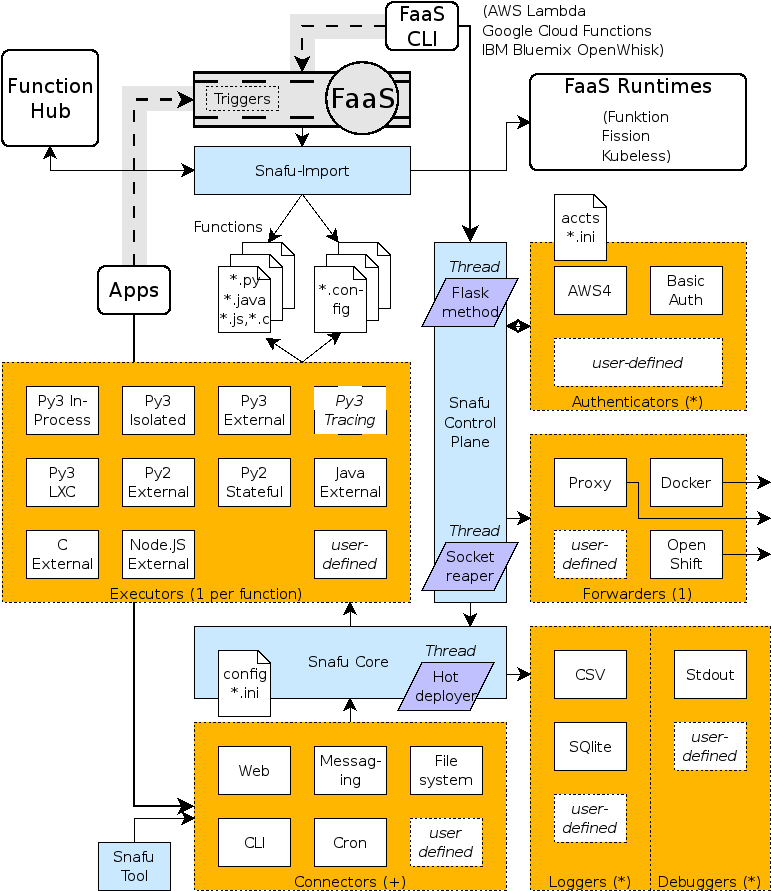
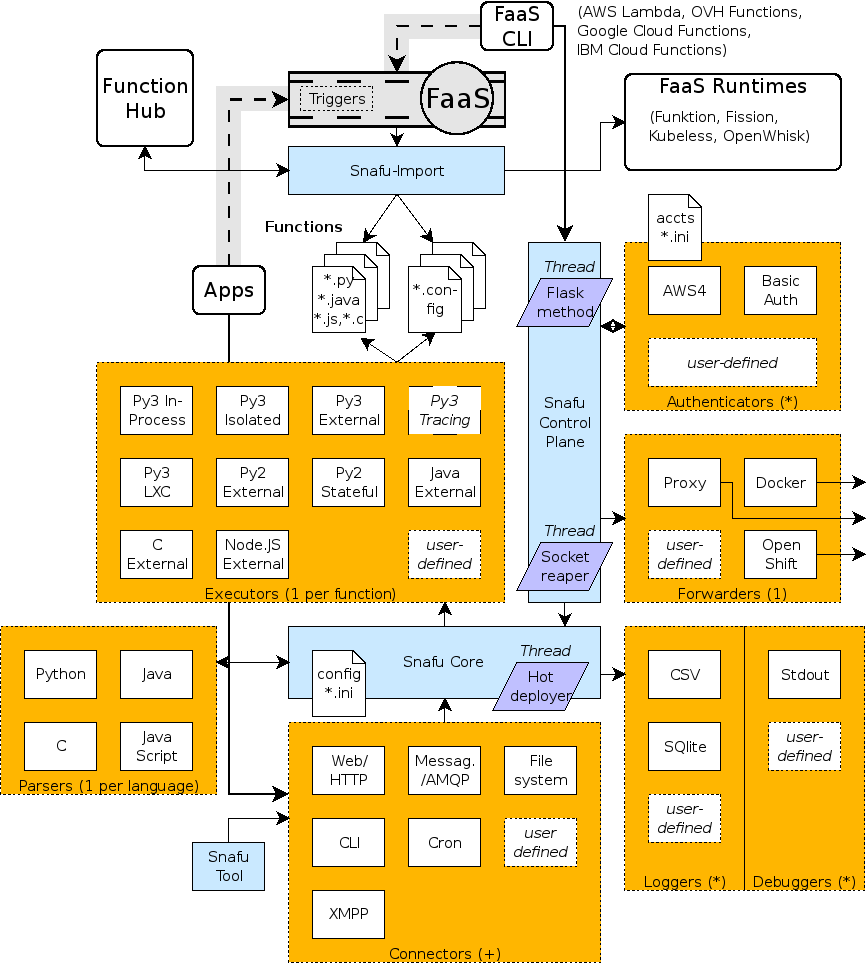
- feature: addition of XMPP connector to allow for interactive networked function calls

diff --git a/snafulib/connectors/xmpp.py b/snafulib/connectors/xmpp.py
@@ -1,0 +1,144 @@
+# Snafu: Snake Functions - XMPP Connector
+# (derived from basexmppbot.py / ported to python3-nbxmpp)
+
+import nbxmpp
+import time
+import configparser
+import os
+#import threading
+import urllib.parse
+
+from gi.repository import GObject as gobject
+
+class BaseXMPPBot:
+	def __init__(self, botname, jid, password, target, debug=True):
+		self.initinternal(botname, jid, password, target)
+
+		self.readystep = 0
+		self.debug = debug
+		self.lasttime = 0
+
+	def initinternal(self, botname, jid, password, target):
+		self.botname = botname
+		self.jid = jid
+		self.password = password
+		self.target = target
+
+	def presenceHandler(self, conn, presence_node):
+		if self.debug:
+			print(":: xmpp presence")
+
+	def iqHandler(self, conn, iq_node):
+		if self.debug:
+			print(":: xmpp iq")
+
+		reply = iq_node.buildReply('result')
+		conn.send(reply)
+		raise nbxmpp.NodeProcessed
+
+	def messageHandler(self, conn, mess_node):
+		if self.debug:
+			print(":: xmpp handler", "[" + str(mess_node.getFrom()) + "]", mess_node.getBody())
+
+		if self.readystep == 0:
+			self.readystep = 1
+
+		if "messageroutine" in dir(self):
+			self.messageroutine(str(mess_node.getFrom()), str(mess_node.getBody()))
+
+	def on_auth(self, con, auth):
+		if not auth:
+			if self.debug:
+				print(":: xmpp could not authenticate!")
+			return
+		if self.debug:
+			print(":: xmpp authenticated using " + auth)
+
+		self.client.RegisterHandler('presence', self.presenceHandler)
+		self.client.RegisterHandler('iq', self.iqHandler)
+		self.client.RegisterHandler('message', self.messageHandler)
+
+		self.client.sendPresence()
+		if self.target:
+			self.client.sendPresence(self.target + "/" + self.botname)
+
+	def get_password(self, cb, mech):
+		cb(self.password)
+
+	def on_connect(self, con, con_type):
+		if self.debug:
+			print(":: xmpp connected", con, con_type)
+		auth = self.client.auth(self.jidproto.getNode(), self.password, resource=self.jidproto.getResource(), sasl=1, on_auth=self.on_auth)
+
+	def on_failure(self):
+		if self.debug:
+			print(":: xmpp connection failed")
+
+	def connect(self):
+		self.readystep = 0
+
+		self.client_cert = None
+		self.sm = nbxmpp.Smacks(self)
+
+		self.jidproto = nbxmpp.protocol.JID(self.jid)
+		self.client = nbxmpp.NonBlockingClient(self.jidproto.getDomain(), nbxmpp.idlequeue.get_idlequeue(), caller=self)
+		self.client.connect(self.on_connect, self.on_failure, secure_tuple=('tls', '', '', None, None))
+
+	def _event_dispatcher(self, realm, event, data):
+		if self.debug:
+			print(":: xmpp dispatcher >> realm:", realm, "event:", type(event), event, "data:", type(data), data)
+		pass
+
+	def worksafely(self):
+		self.connect()
+		ml = gobject.MainLoop()
+		ml.run()
+
+	def post(self, msg):
+		self.client.send(nbxmpp.protocol.Message(self.target, msg, "groupchat"))
+
+class Connector(BaseXMPPBot):
+	def __init__(self, connectconfig, debug):
+		u = urllib.parse.urlparse(connectconfig)
+		password = u.password
+		jid = u.username + "@" + u.hostname
+
+		target = None
+		botname = None
+		BaseXMPPBot.__init__(self, botname, jid, password, target, debug=debug)
+
+	def messageroutine(self, sender, msg):
+		if self.debug:
+			print(":: (xmpp connector) message received...", msg)
+
+		response = gcb(msg)
+		rmsg = self.client.send(nbxmpp.protocol.Message(sender, response, typ="chat"))
+
+def initinternal(function, configpath):
+	debug = True
+
+	connectconfig = None
+	if not configpath:
+		configpath = "snafu.ini"
+	if not function:
+		function = "snafu"
+	if os.path.isfile(configpath):
+		config = configparser.ConfigParser()
+		config.read(configpath)
+		if function in config and "connector.xmpp" in config[function]:
+			connectconfig = config[function]["connector.xmpp"]
+
+	if debug:
+		print(":: (xmpp url)", connectconfig)
+
+	if connectconfig:
+		connector = Connector(connectconfig, debug)
+		connector.worksafely()
+
+def init(cb, function=None, configpath=None):
+	global gcb
+	gcb = cb
+
+	#t = threading.Thread(target=initinternal, daemon=True, args=(function, configpath))
+	#t.start()
+	initinternal(function, configpath)

diff --git a/snafulib/snafu.py b/snafulib/snafu.py
@@ -430,7 +430,7 @@ class SnafuRunner:
 		parser = argparse.ArgumentParser(description="Snake Functions as a Service")
 		SnafuRunner.add_common_arguments(parser)
 		parser.add_argument("-c", "--convention", help="method call convention", choices=["any", "lambda", "openwhisk"], default="any")
-		parser.add_argument("-C", "--connector", help="function connectors; 'cli' by default", choices=["cli", "web", "messaging", "filesystem", "cron"], default=["cli"], nargs="+")
+		parser.add_argument("-C", "--connector", help="function connectors; 'cli' by default", choices=["cli", "web", "messaging", "filesystem", "cron", "xmpp"], default=["cli"], nargs="+")
 		parser.add_argument("-x", "--execute", help="execute a single function")
 		parser.add_argument("-X", "--execution-target", help="execute function on target service", choices=["lambda", "gfunctions", "openwhisk"], nargs="?")
 		args = parser.parse_args()
